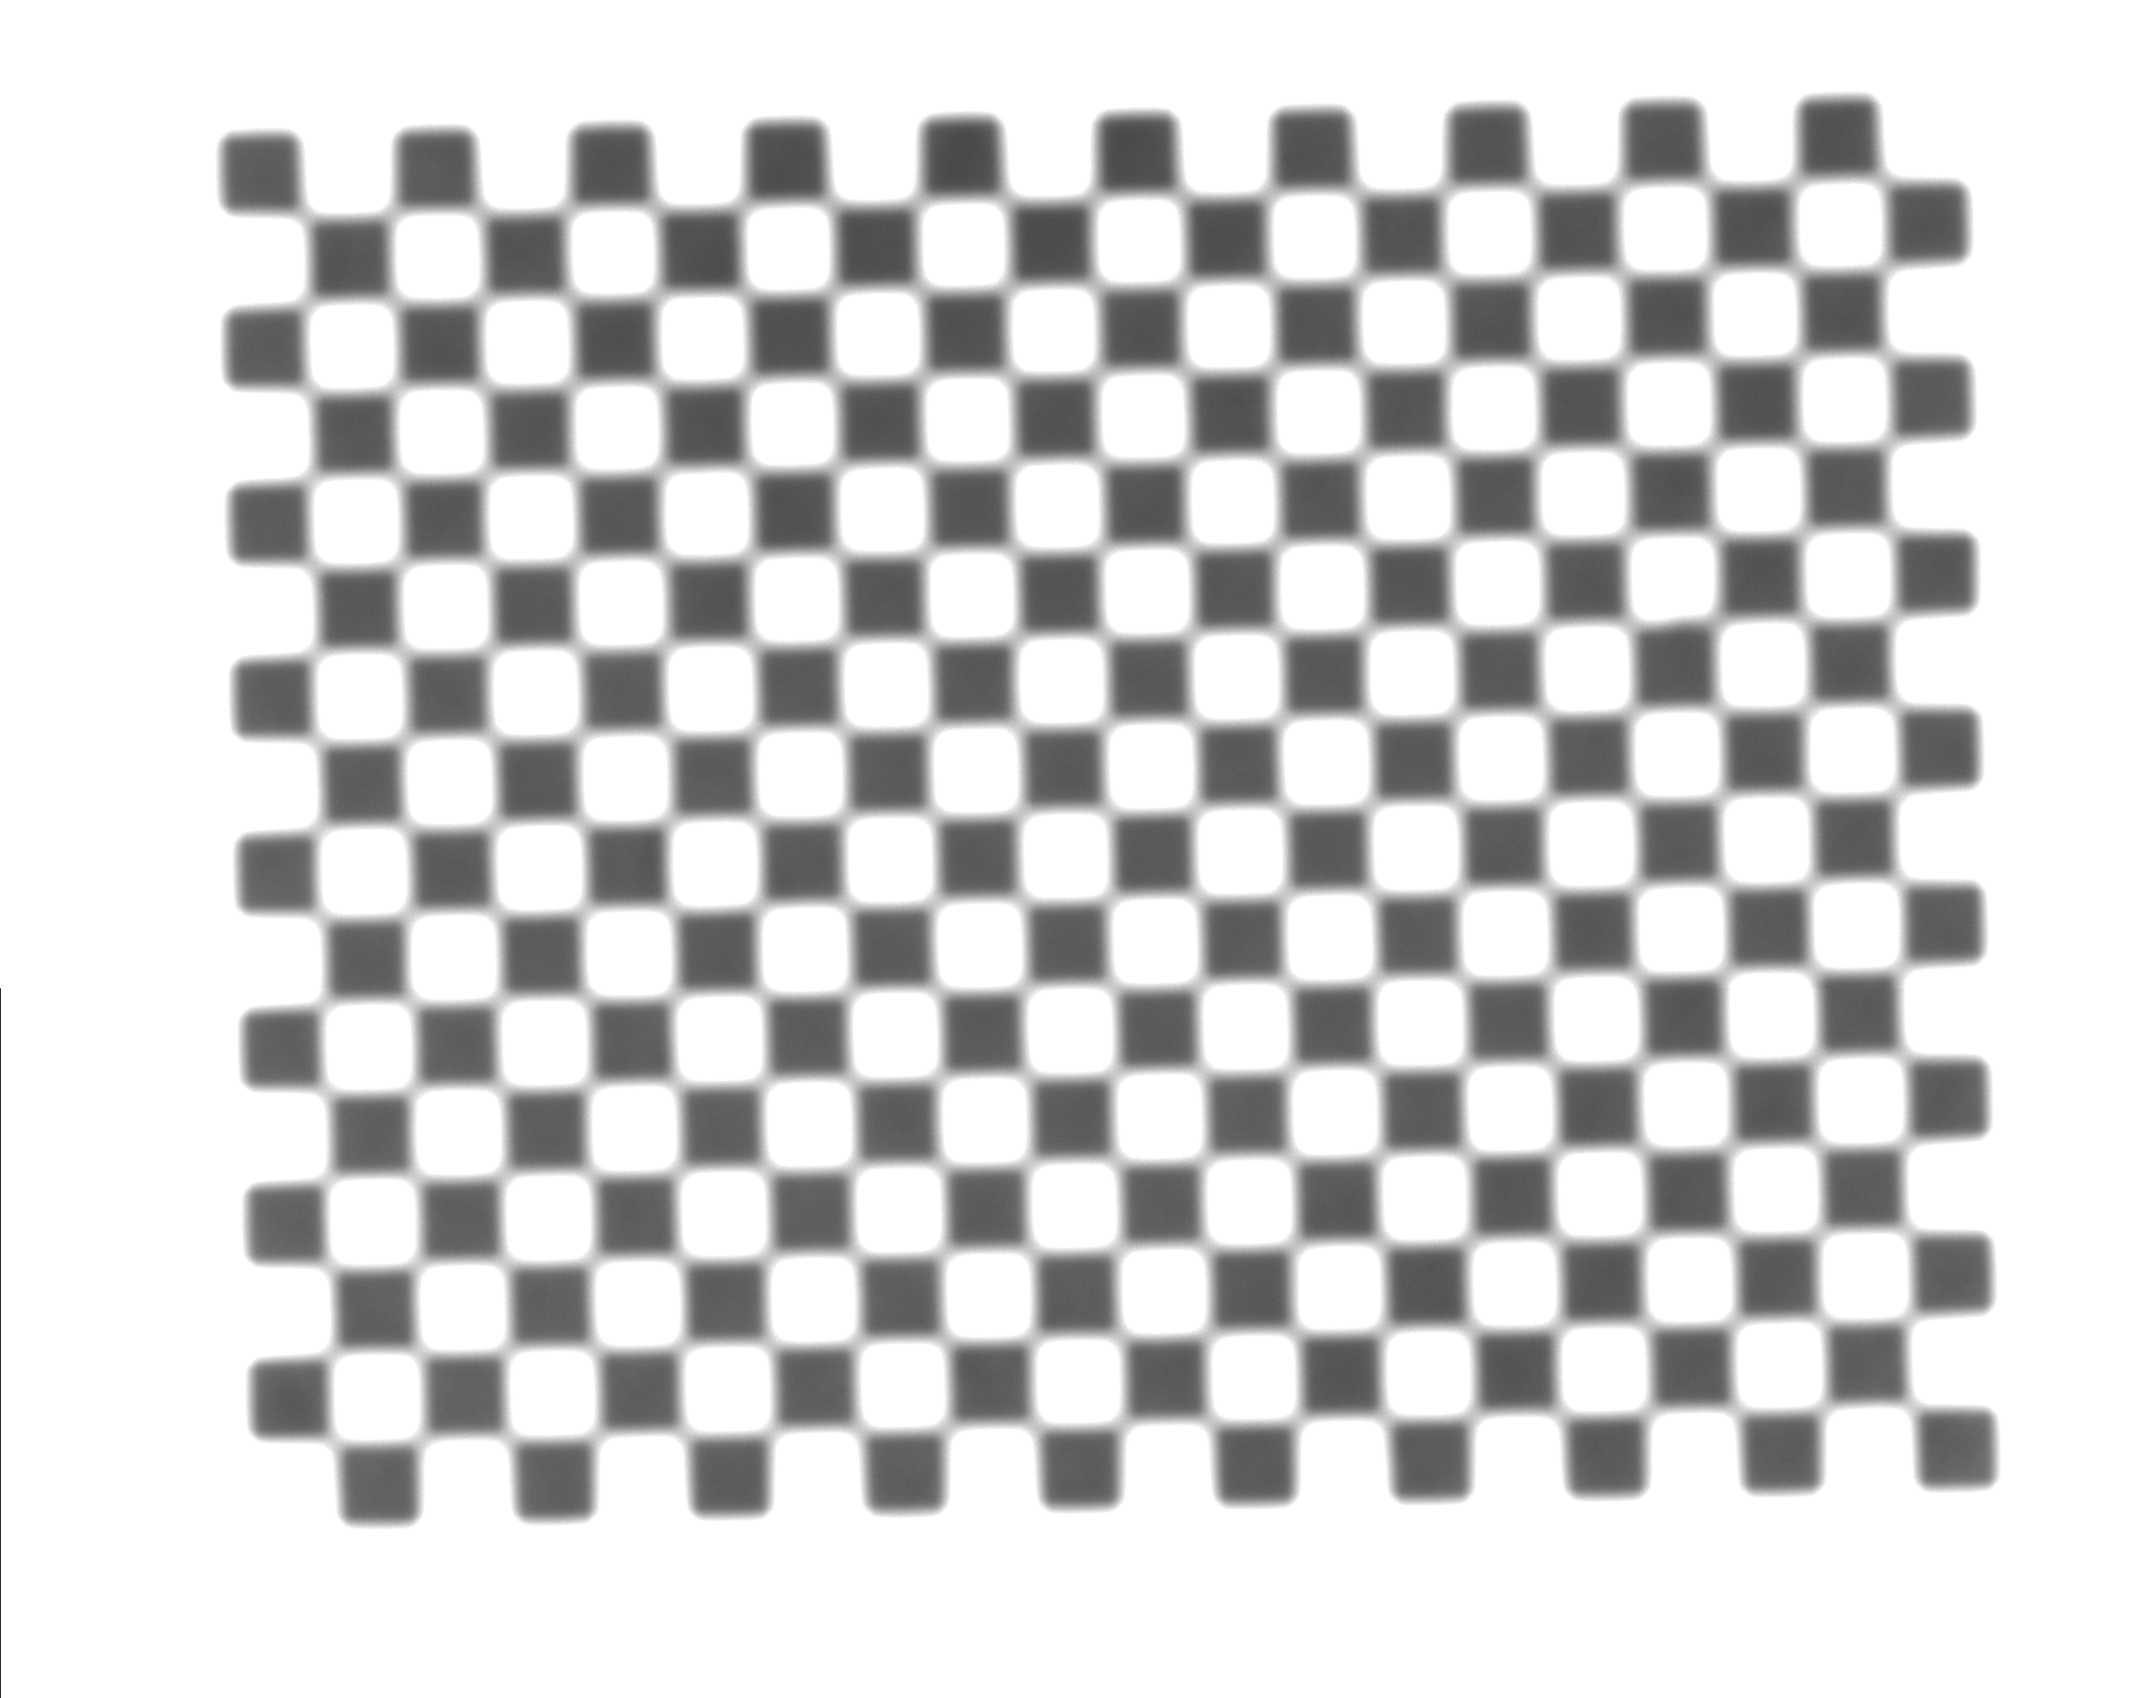
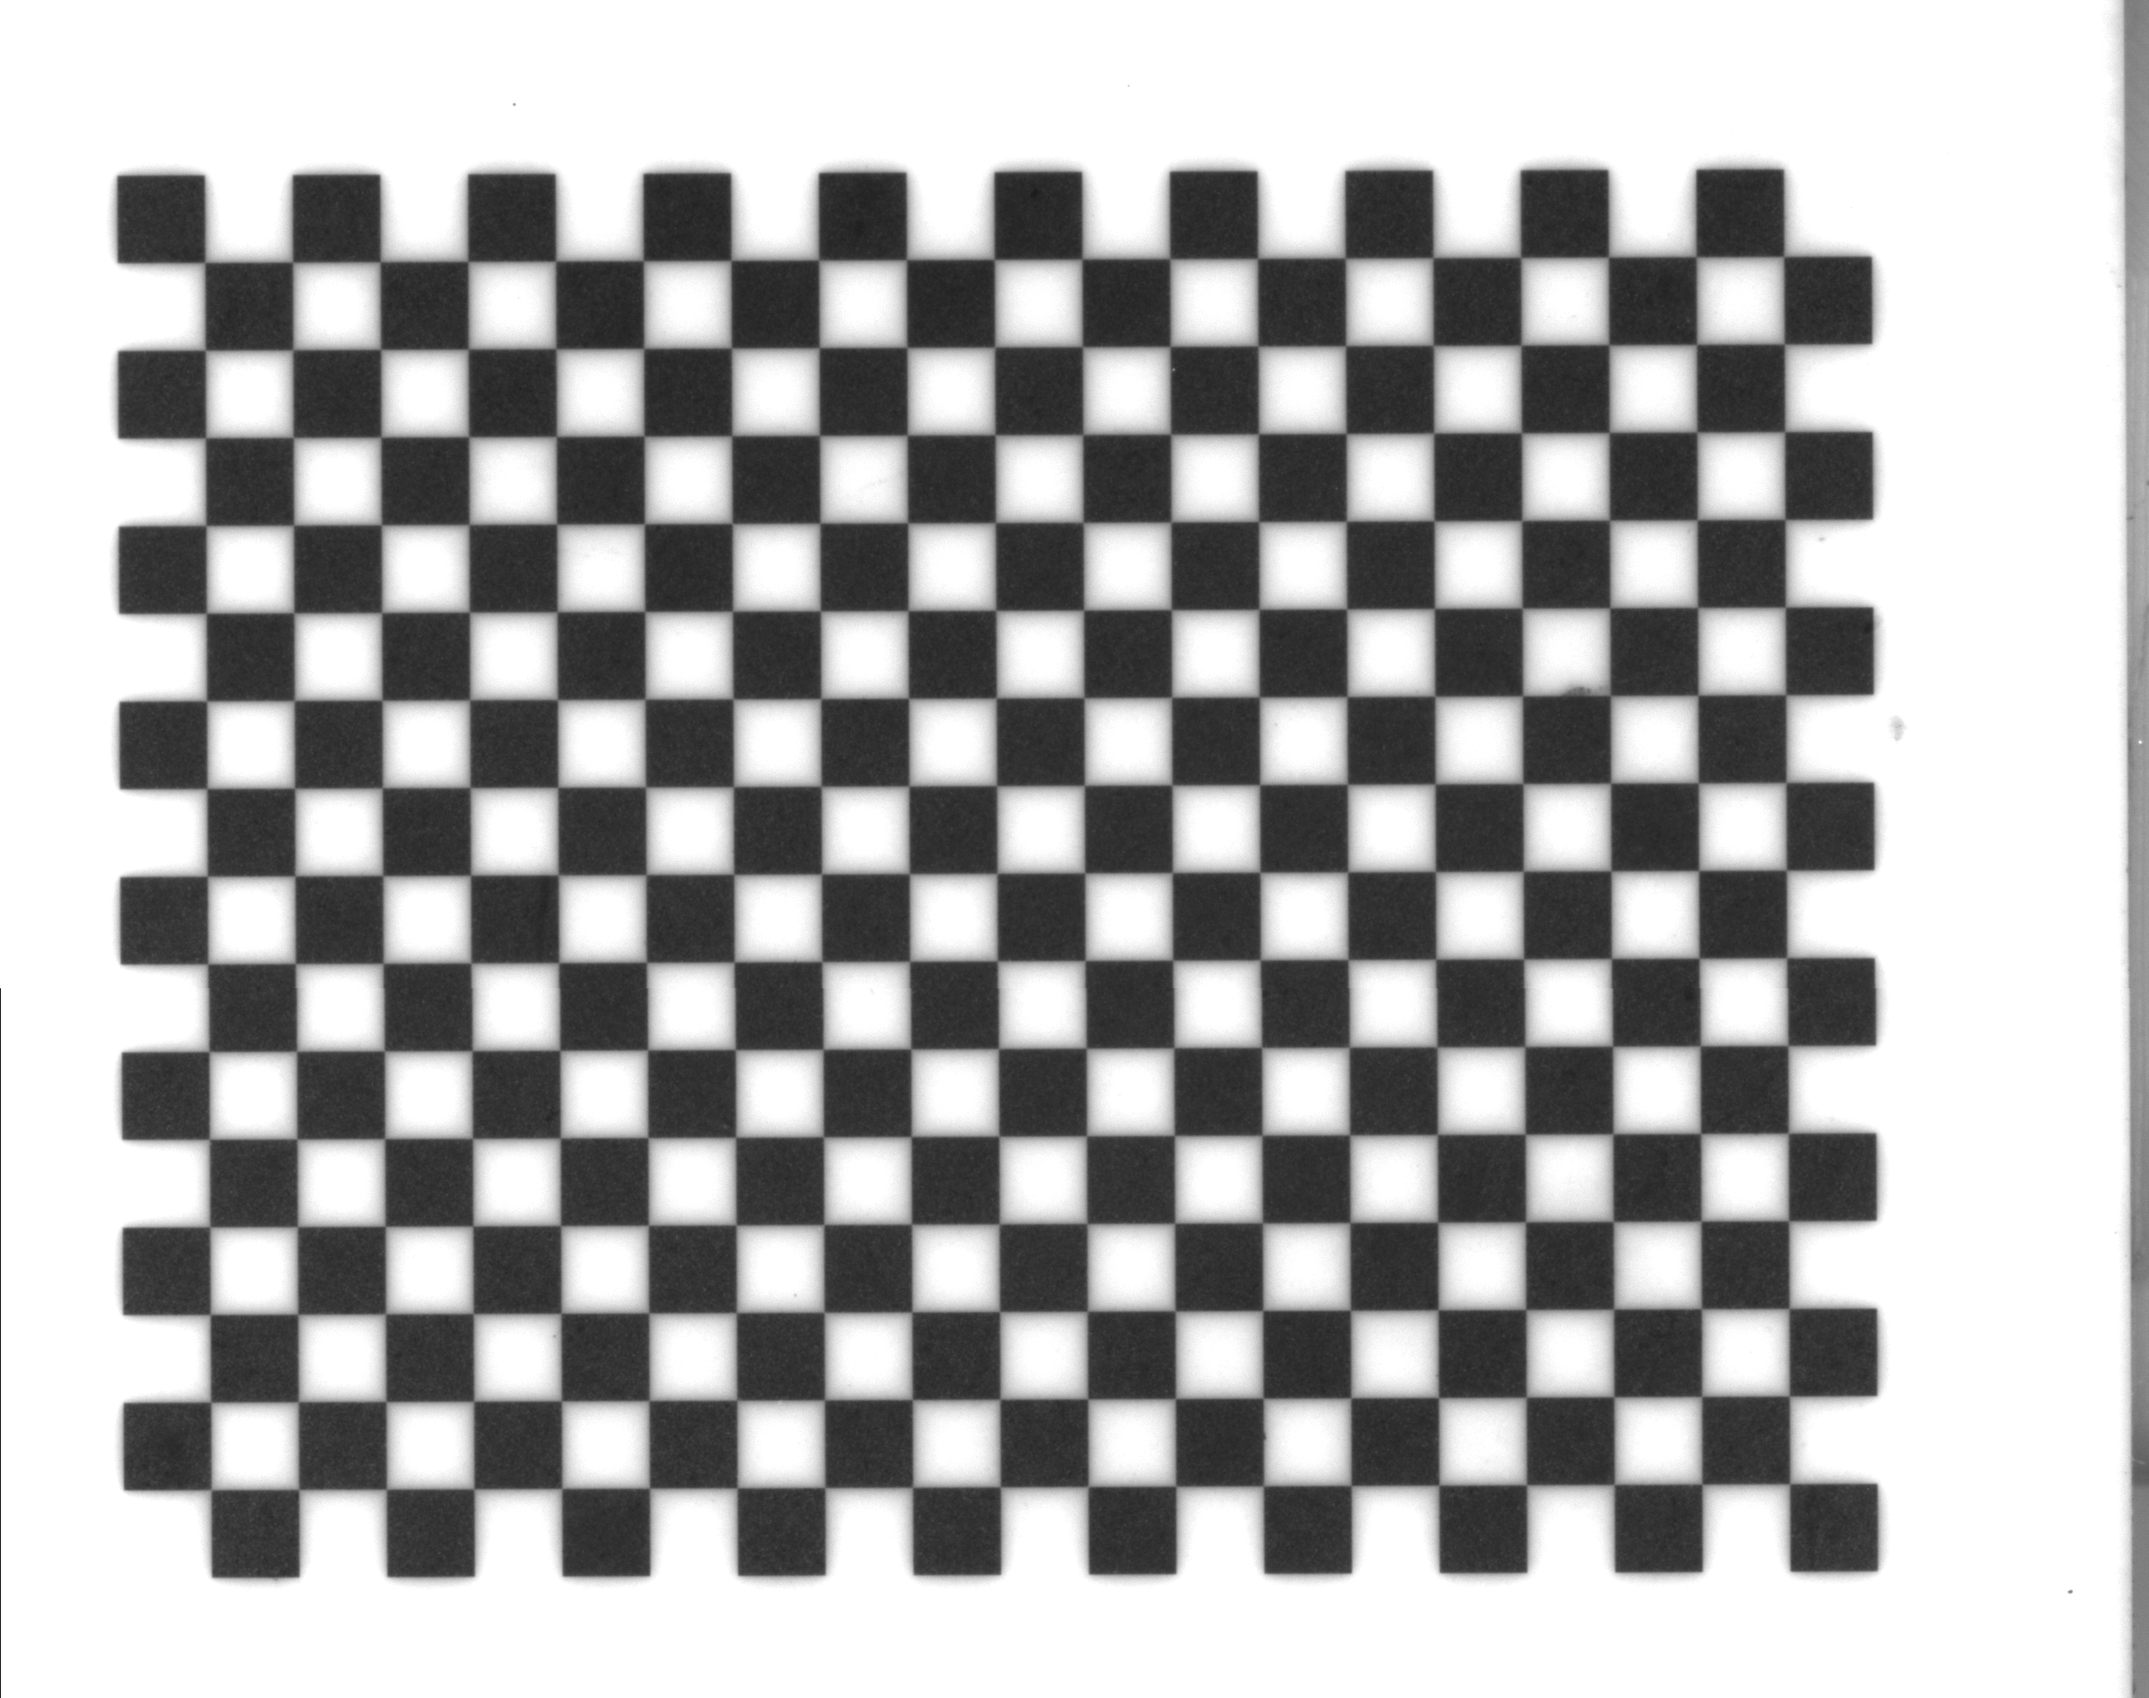
运气不好

diff --git a/GalaxySDK/test2.cpp b/GalaxySDK/test2.cpp
@@ -3,6 +3,9 @@
 #include <opencv2/opencv.hpp>
 #include <opencv2/highgui.hpp>
 #include <string>
+#include <vector>
+
+// #include <filesystem>
 
 constexpr auto CAMERA_TOP = "00-21-49-03-4D-95";
 
@@ -14,7 +17,6 @@ int main()
         std::cerr << "Failed to init camera1" << std::endl;
         return -1;
     }
-
     cv::Mat cameraMatrix = (cv::Mat_<double>(3, 3) << 105.9035, 0.04435, 0, 0, 105.689, 0, 0, 0, 1);
     cv::Mat distCoeffs = (cv::Mat_<double>(1, 5) << 0, 0, 0, 0, 0);
 
@@ -31,28 +33,25 @@ int main()
     int count = 0;
     while (camera1.Read(a))
     {
-
         cv::Mat dst;
         cv::remap(a, dst, map1, map2, cv::INTER_NEAREST);
+
+        std::vector<cv::Point2f> corner;
+        if (!cv::findChessboardCorners(dst, cv::Size(19, 15), corner))
+        {
+            std::cerr << "Failed to find corners in image" << std::endl;
+            continue;
+        }
+        const cv::TermCriteria criteria{cv::TermCriteria::EPS | cv::TermCriteria::COUNT, 30, 0.001};
+        cv::cornerSubPix(dst, corner, cv::Size(6, 6), cv::Size(-1, -1), criteria);
+        cv::drawChessboardCorners(dst, cv::Size(19, 15), corner, true);
+
         cv::imshow(window_name, dst);
         if (cv::waitKey(1) == 27)
         {
             break;
         }
-        if (cv::waitKey(1) == 32)
-        {
-
-            std::string filename = "E:/WYL_workspace/Visual_Servo_C/GalaxySDK/image/calibration_" + std::to_string(count) + ".png";
-            count++;
-
-            if (!cv::imwrite(filename, dst))
-            {
-                std::cerr << "Failed to get picture" << std::endl;
-                break;
-            }
-            else
-                std::cout << "success to save picture " << count << std::endl;
-        }
     }
     cv::destroyAllWindows();
+    return 0;
 }

diff --git a/GalaxySDK/test.cpp b/GalaxySDK/test.cpp
@@ -2,9 +2,46 @@
 #include <iostream>
 #include <opencv2/opencv.hpp>
 #include <opencv2/highgui.hpp>
+#include <string>
+#include <vector>
 
-int main() {
+// #include <filesystem>
 
-    std::cout << cv::Mat() << std::endl;
+int main()
+{
+    std::string imagename = "Calibration_board";
+    cv::namedWindow(imagename, cv::WINDOW_NORMAL);
+    cv::resizeWindow(imagename, cv::Size(1295, 1024));
+
+    std::string filename = "../image/calibration_4.png";
+    cv::Mat image = cv::imread(filename);
+    if (image.empty())
+    {
+        std::cerr << "Failed to read image" << std::endl;
+        return -1;
+    }
+    cv::imshow(imagename, image);
+    // if(cv::waitKey(0) == 32){
+    //     std::cout << "good" << std::endl;
+    // }
+    cv::Mat gray;
+    cv::cvtColor(image, gray, cv::COLOR_BGR2GRAY);
+    cv::imshow(imagename, gray);
+    // if (cv::waitKey(0) == 32)
+    // {
+    //     std::cout << "good" << std::endl;
+    // }
+    std::vector<cv::Point2f> corner;
+    if (!cv::findChessboardCorners(gray, cv::Size(19, 15), corner))
+    {
+        std::cerr << "Failed to find corners in image" << std::endl;
+        return -1;
+    }
+    const cv::TermCriteria criteria{cv::TermCriteria::EPS | cv::TermCriteria::COUNT, 30, 0.001};
+    cv::cornerSubPix(gray, corner, cv::Size(6, 6), cv::Size(-1, -1), criteria);
+    cv::drawChessboardCorners(image, cv::Size(19, 15), corner, true);
+
+    cv::imshow(imagename, image);
+    cv::waitKey(0);
     return 0;
 }
